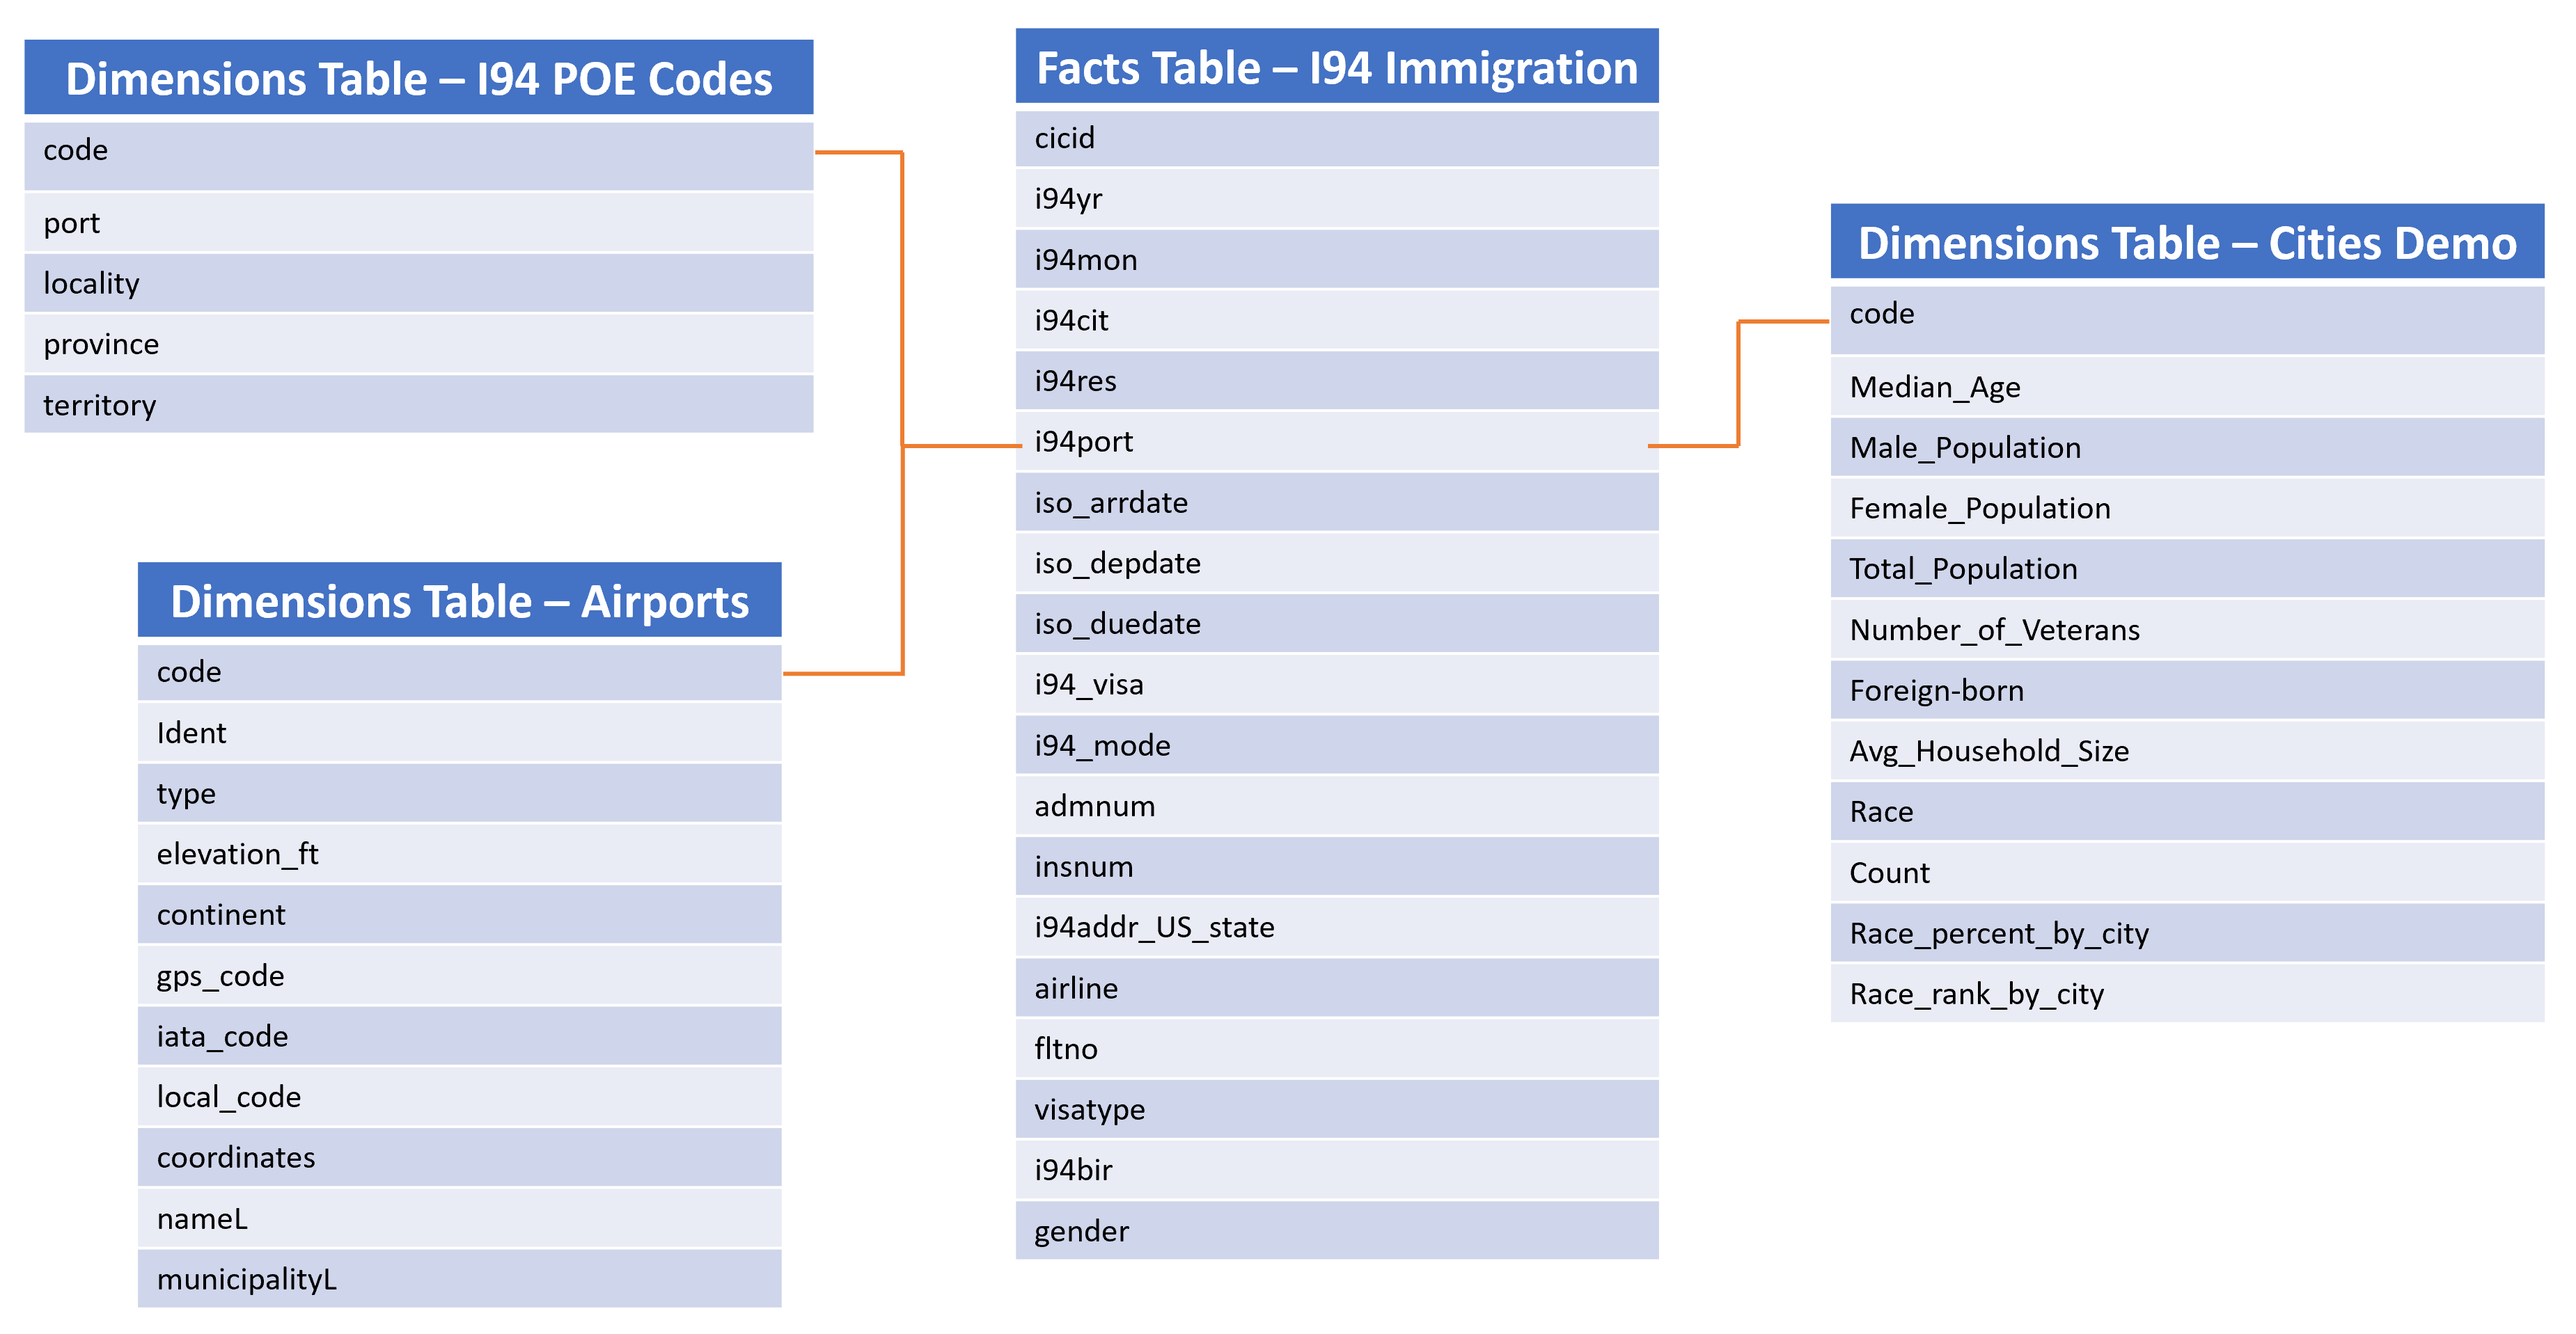
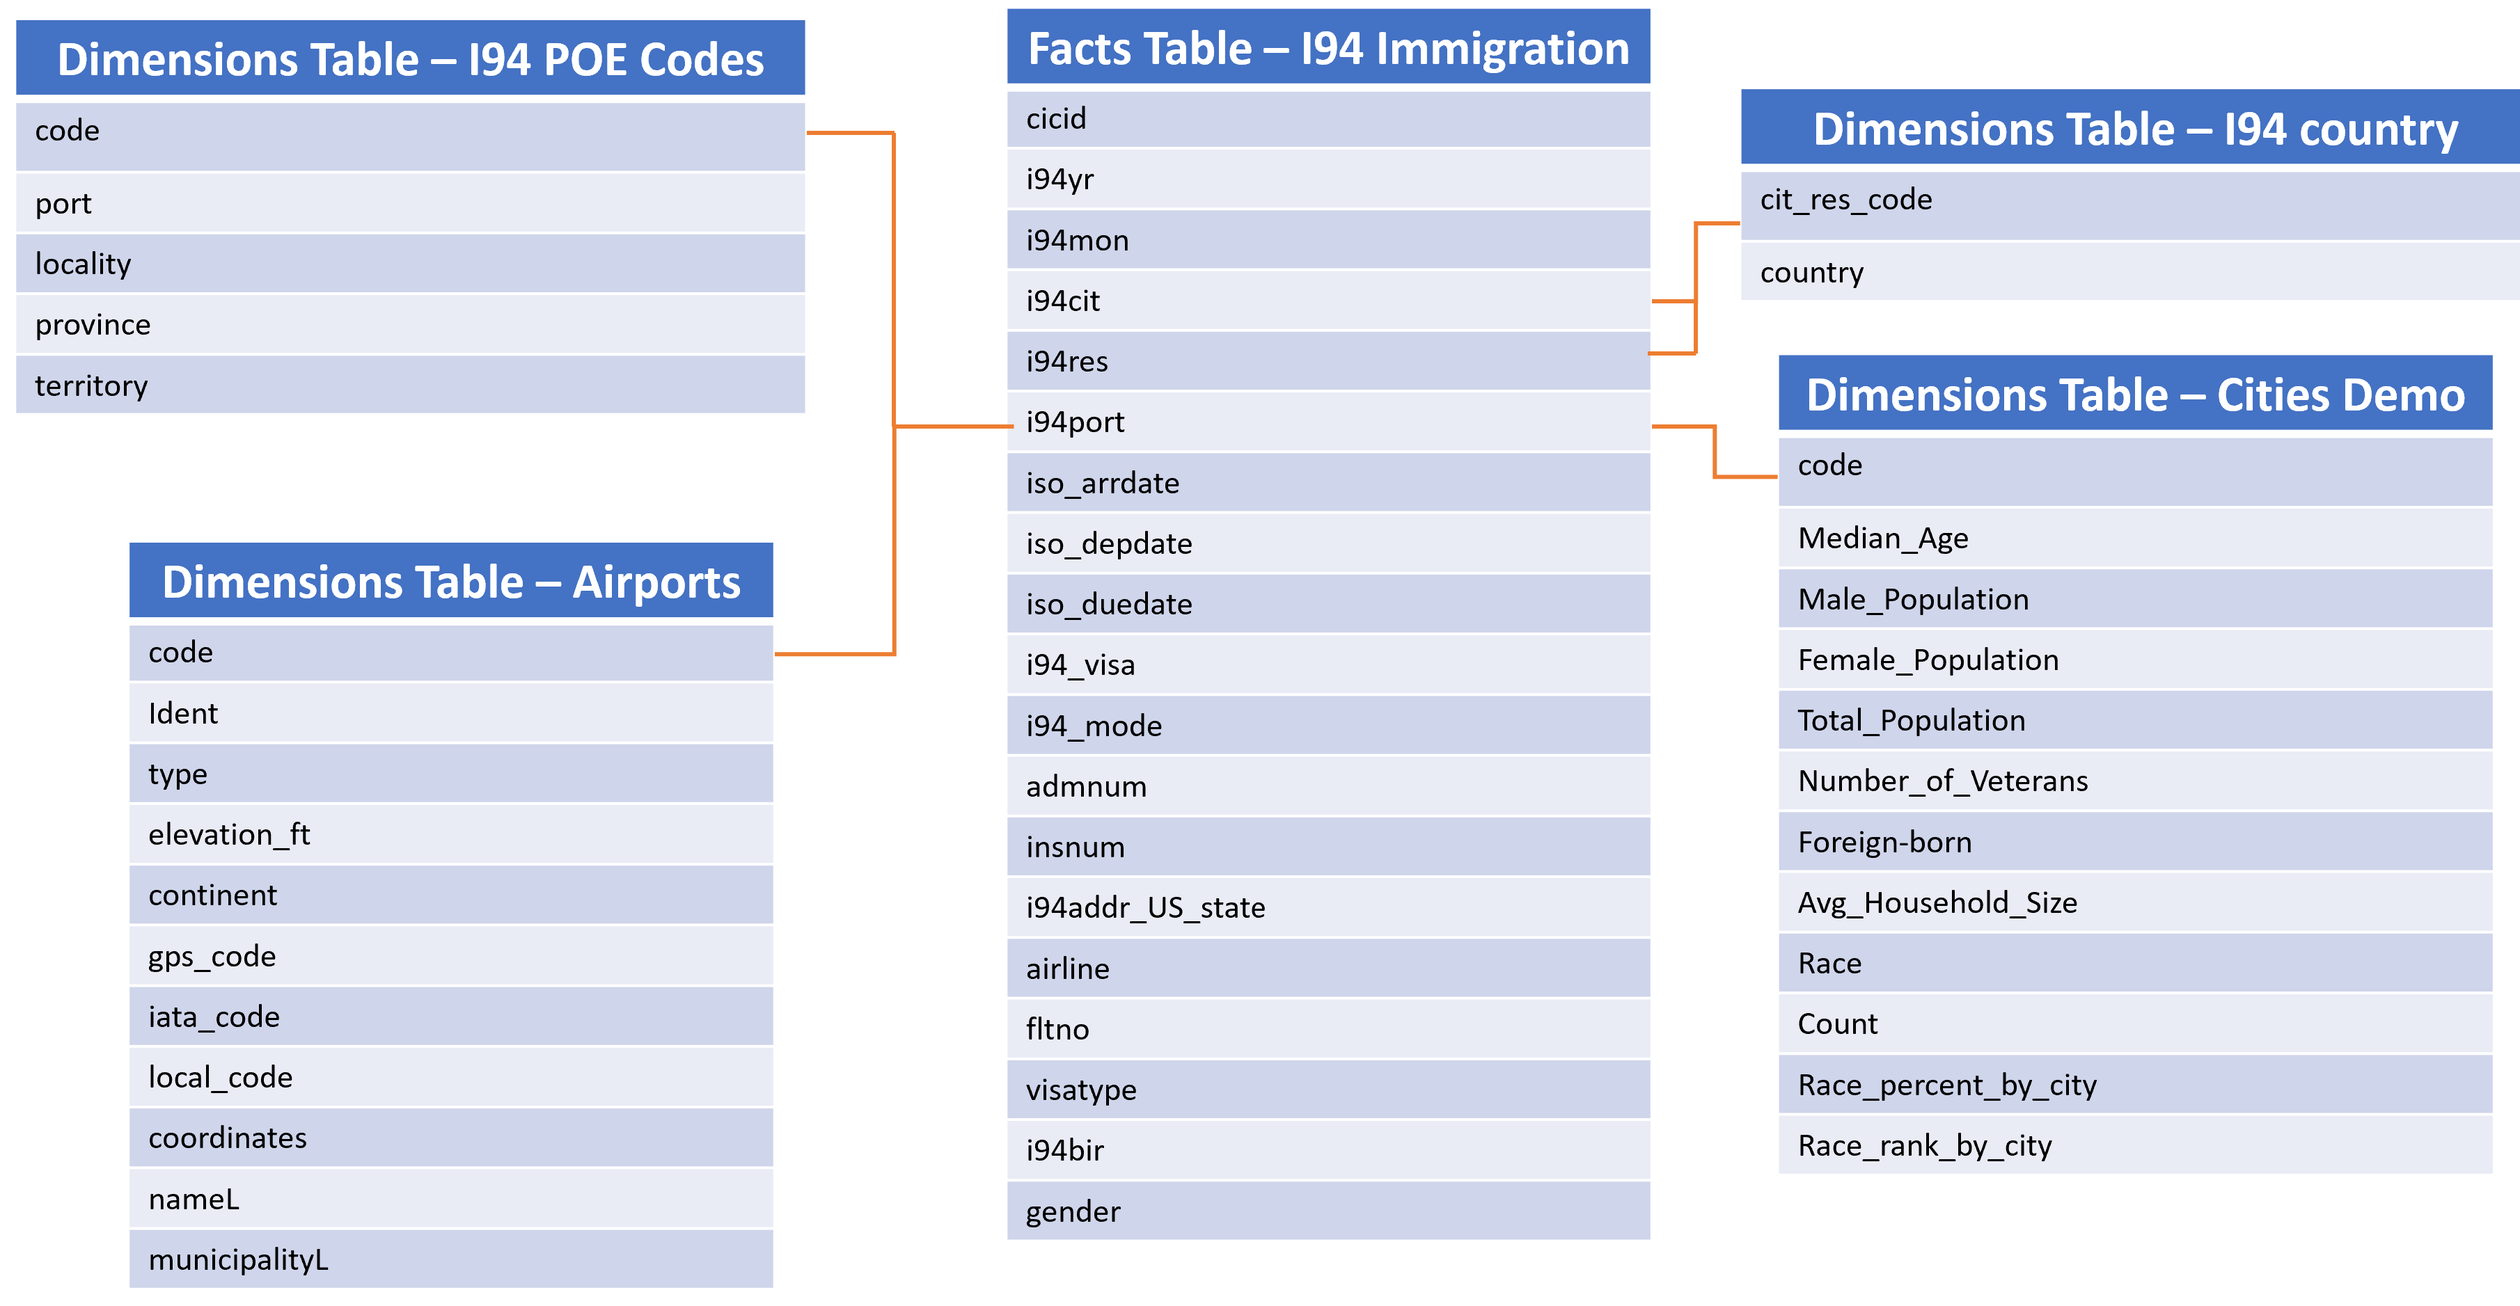
editing images

diff --git a/etl_dimensions.py b/etl_dimensions.py
@@ -62,7 +62,7 @@ def process_dimension_data(spark, input_bucket, output_data):
                                       'nameL', 'municipalityL', 'code')
     
     # write airports table to parquet file
-    airports_table.write.parquet(output_data+'airports', partitionBy=[''])
+    airports_table.write.parquet(output_data+'airports')
     
     # get filepath to cities demographics data file
     cities_demo_data = input_bucket+'us-cities-demographics.csv'
@@ -94,6 +94,22 @@ def process_dimension_data(spark, input_bucket, output_data):
     cities_demo_table.write.parquet(output_data+'cities_demo')
     
     
+def quality_check_dim(spark, output_data):
+    
+    try:
+        
+        df_airports = spark.read.parquet(output_data+'airports')
+    
+        df_cities_demo = spark.read.parquet(output_data+'cities_demo')
+    
+    except:
+        print("Failed to read the dimension data")
+        
+    
+    if df_airports.count==0 or df_cities_demo.count()==0:
+        print("Failed the data quality check")
+        
+        
 '''
 main():
 The main function.
@@ -106,7 +122,8 @@ def main():
     output_data = "s3://us-immigration-dl/" 
     input_data = "s3a://us-immigration-cleaned-data/i94_apr16_sub.sas7bdat" 
     
-    process_dimension_data(spark, input_bucket, output_data)    
+    process_dimension_data(spark, input_bucket, output_data)
+    quality_check_dim(spark, output_data)
 
 
 if __name__ == "__main__":

diff --git a/etl_facts.py b/etl_facts.py
@@ -85,6 +85,22 @@ def process_facts_data(spark, input_data, input_bucket, output_data):
 
     
     
+def quality_check_facts(spark, output_data):
+    
+    try:
+        
+        df_i94 = spark.read.parquet(output_data+'I94_data/')
+      
+    except:
+        
+        print("Failed to read the facts data")
+        
+    
+    if df_i94.count==0:
+        print("Failed the data quality check")
+        
+        
+    
 '''
 main():
 The main function.
@@ -98,6 +114,8 @@ def main():
     input_data = "s3a://us-immigration-cleaned-data/i94_apr16_sub.sas7bdat" 
     
     process_facts_data(spark, input_data, input_bucket, output_data)
+    
+    quality_check_facts(spark, output_data)
 
 
 if __name__ == "__main__":

diff --git a/README.md b/README.md
@@ -265,6 +265,11 @@ Port of entries code table:
 - province => state/province
 - territory => country
 
+Countries_table:
+
+- cit_res_code => 3 digit country code
+- country
+
 Airports Table:
 
 - code => 3 letter i94 port of entry code
@@ -322,7 +327,7 @@ $ spark-submit --master yarn \
 >> --conf spark.dynamicAllocation.enabled=true \
 >> --conf spark.dynamicAllocation.minExecutors=1 \
 >> --packages saurfang:spark-sas7bdat:3.0.0-s_2.11
->> etl.py
+>> etl_<file>.py
 ```
 
 #### Discussions
